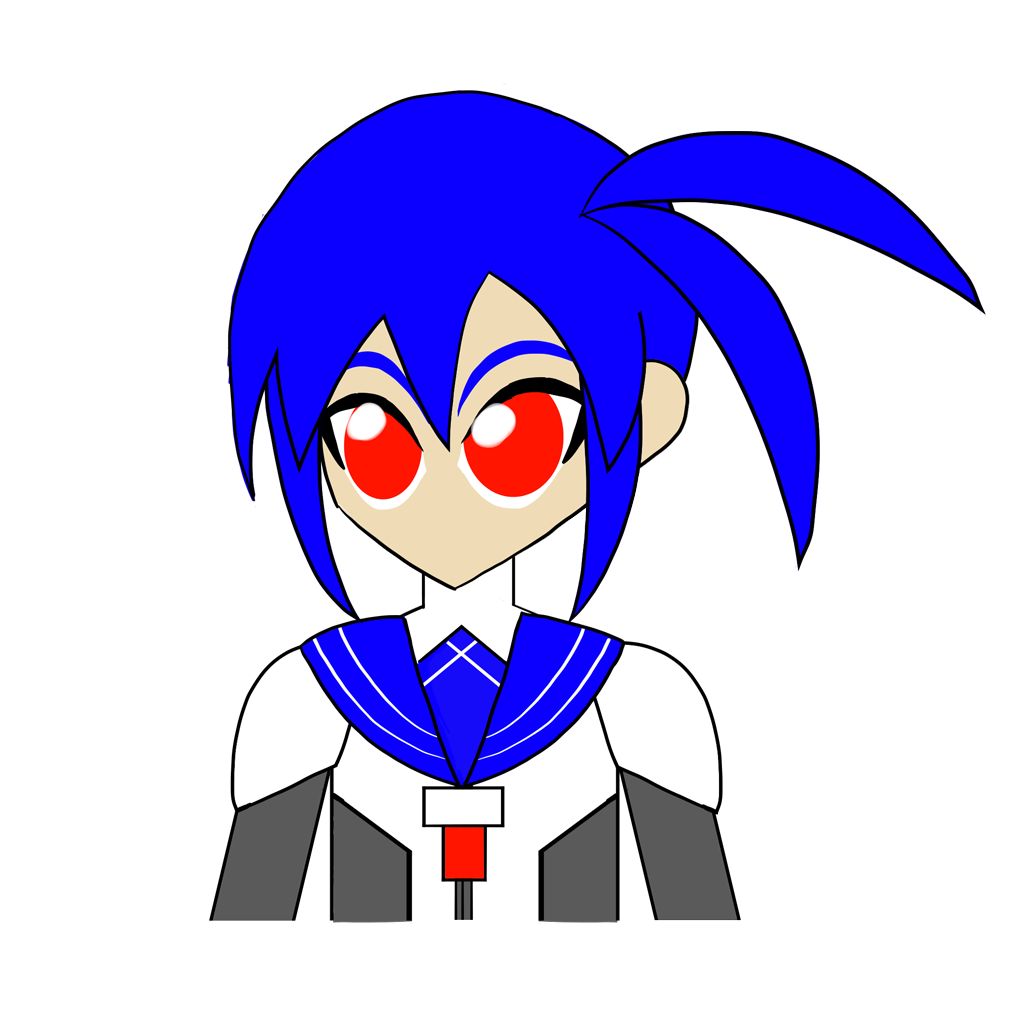
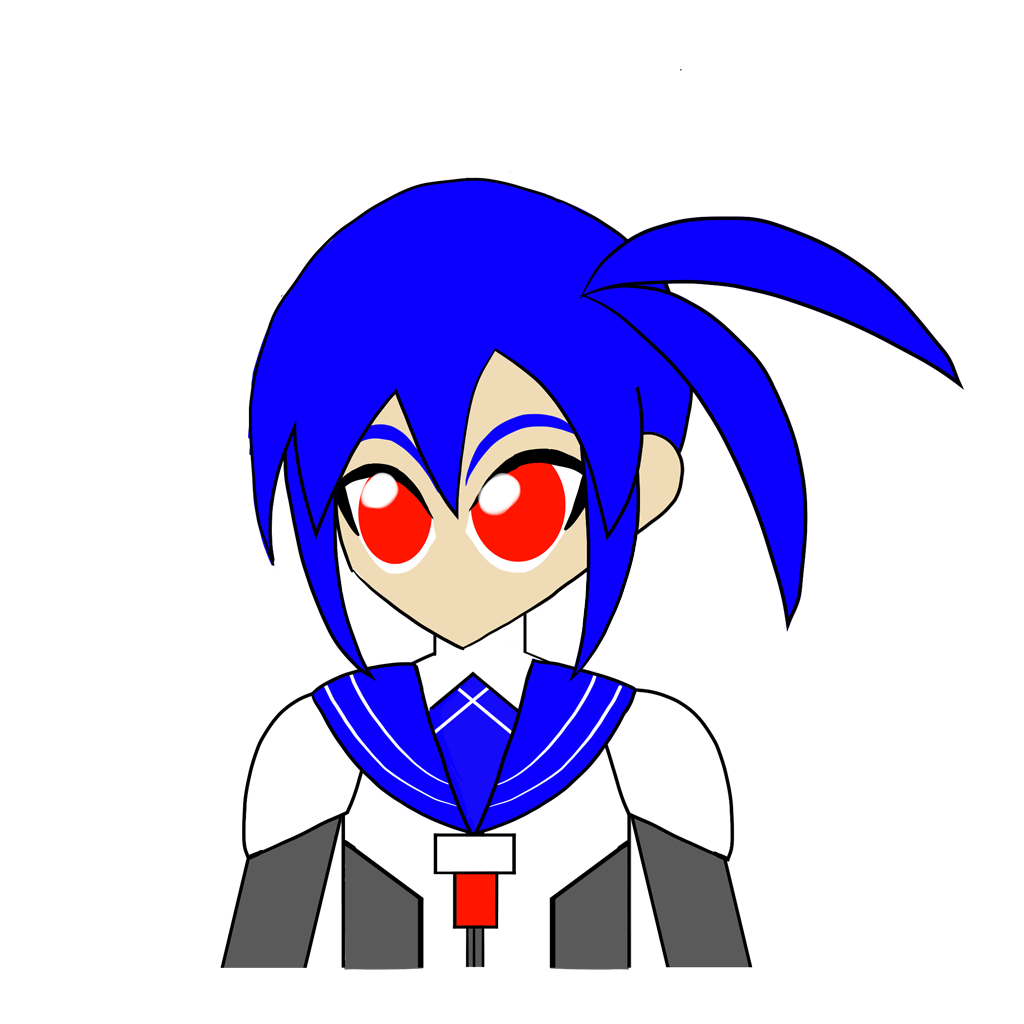
ツバサのバーストボタン位置を調整した

Changed region(s): [[0.1875, 0.0625, 0.9688, 0.9688]]

diff --git a/stories/pilot-button.stories.js b/stories/pilot-button.stories.js
@@ -38,3 +38,15 @@ export const gai = (): HTMLElement => {
   stub.start();
   return stub.domElement();
 }
+
+export const raito = (): HTMLElement => {
+  const stub = pilotButtonStub(PilotIds.RAITO);
+  stub.start();
+  return stub.domElement();
+}
+
+export const tsubasa = (): HTMLElement => {
+  const stub = pilotButtonStub(PilotIds.TSUBASA);
+  stub.start();
+  return stub.domElement();
+}

diff --git a/src/js/game-object/pilot-button/view/tsubasa.js b/src/js/game-object/pilot-button/view/tsubasa.js
@@ -30,8 +30,8 @@ export class TsubasaIcon implements PilotIcon {
       width: 400,
       height: 400,
     });
-    this._mesh.getObject3D().position.x = -10;
-    this._mesh.getObject3D().position.y = 120;
+    this._mesh.getObject3D().position.x = 10;
+    this._mesh.getObject3D().position.y = 140;
     this._group.add(this._mesh.getObject3D());
   }
 
